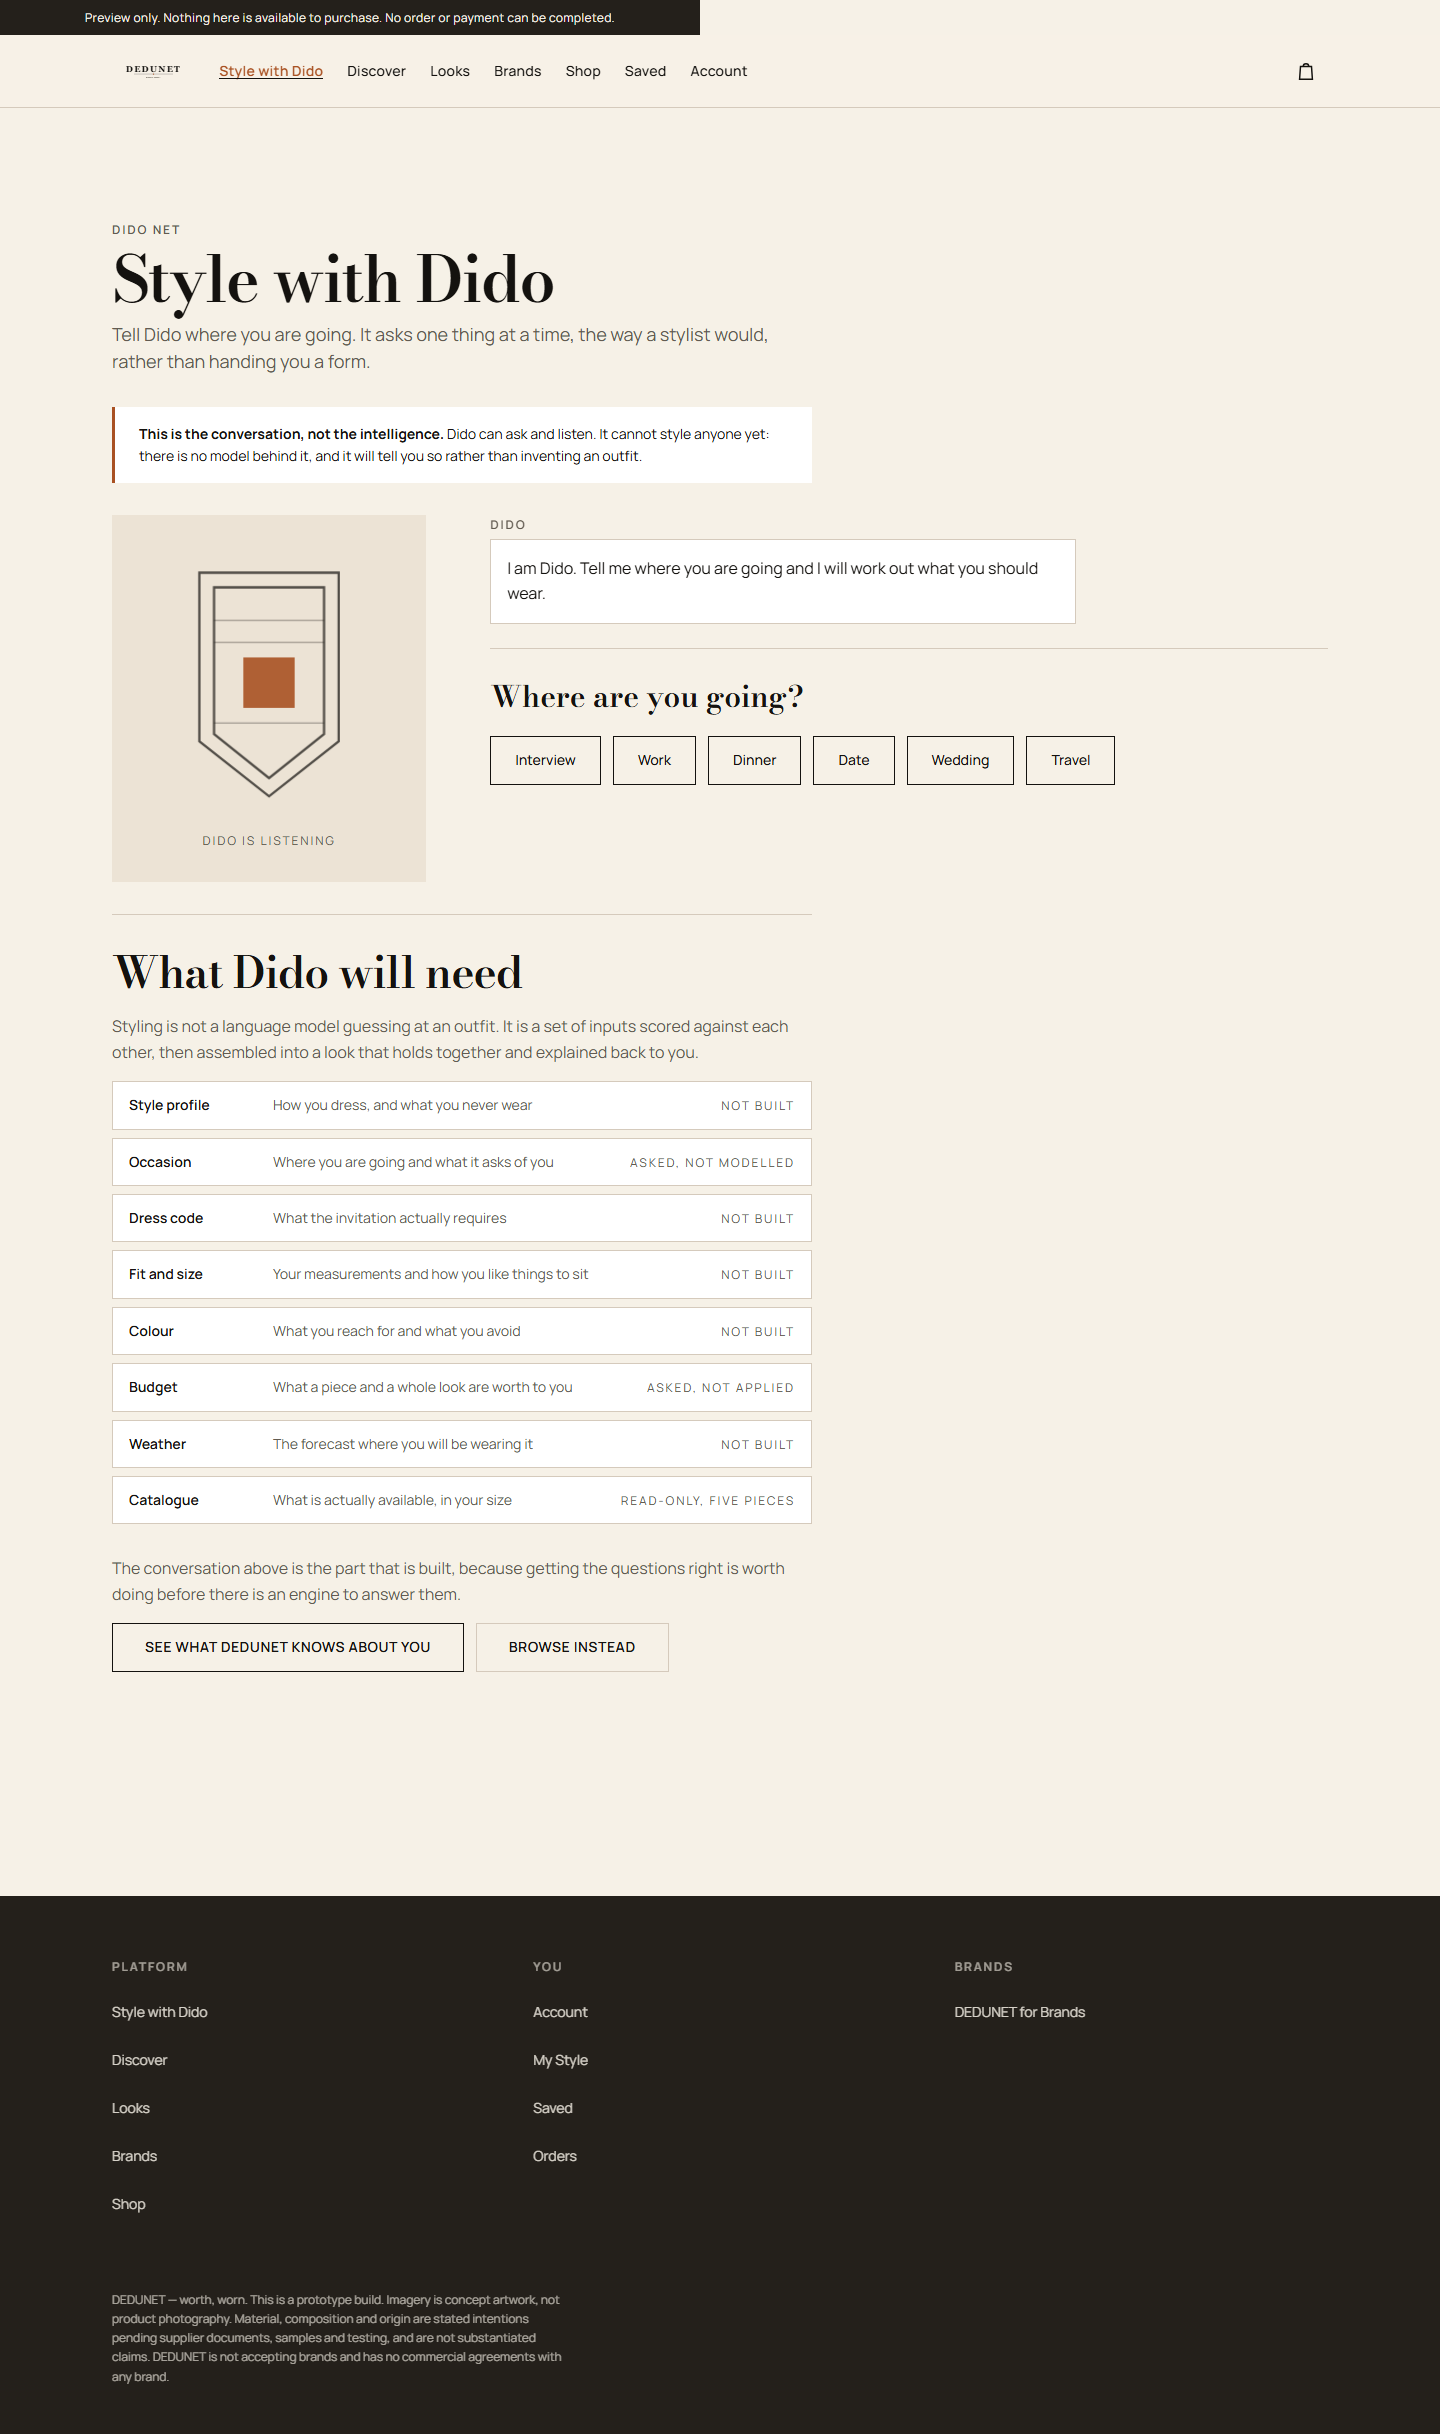
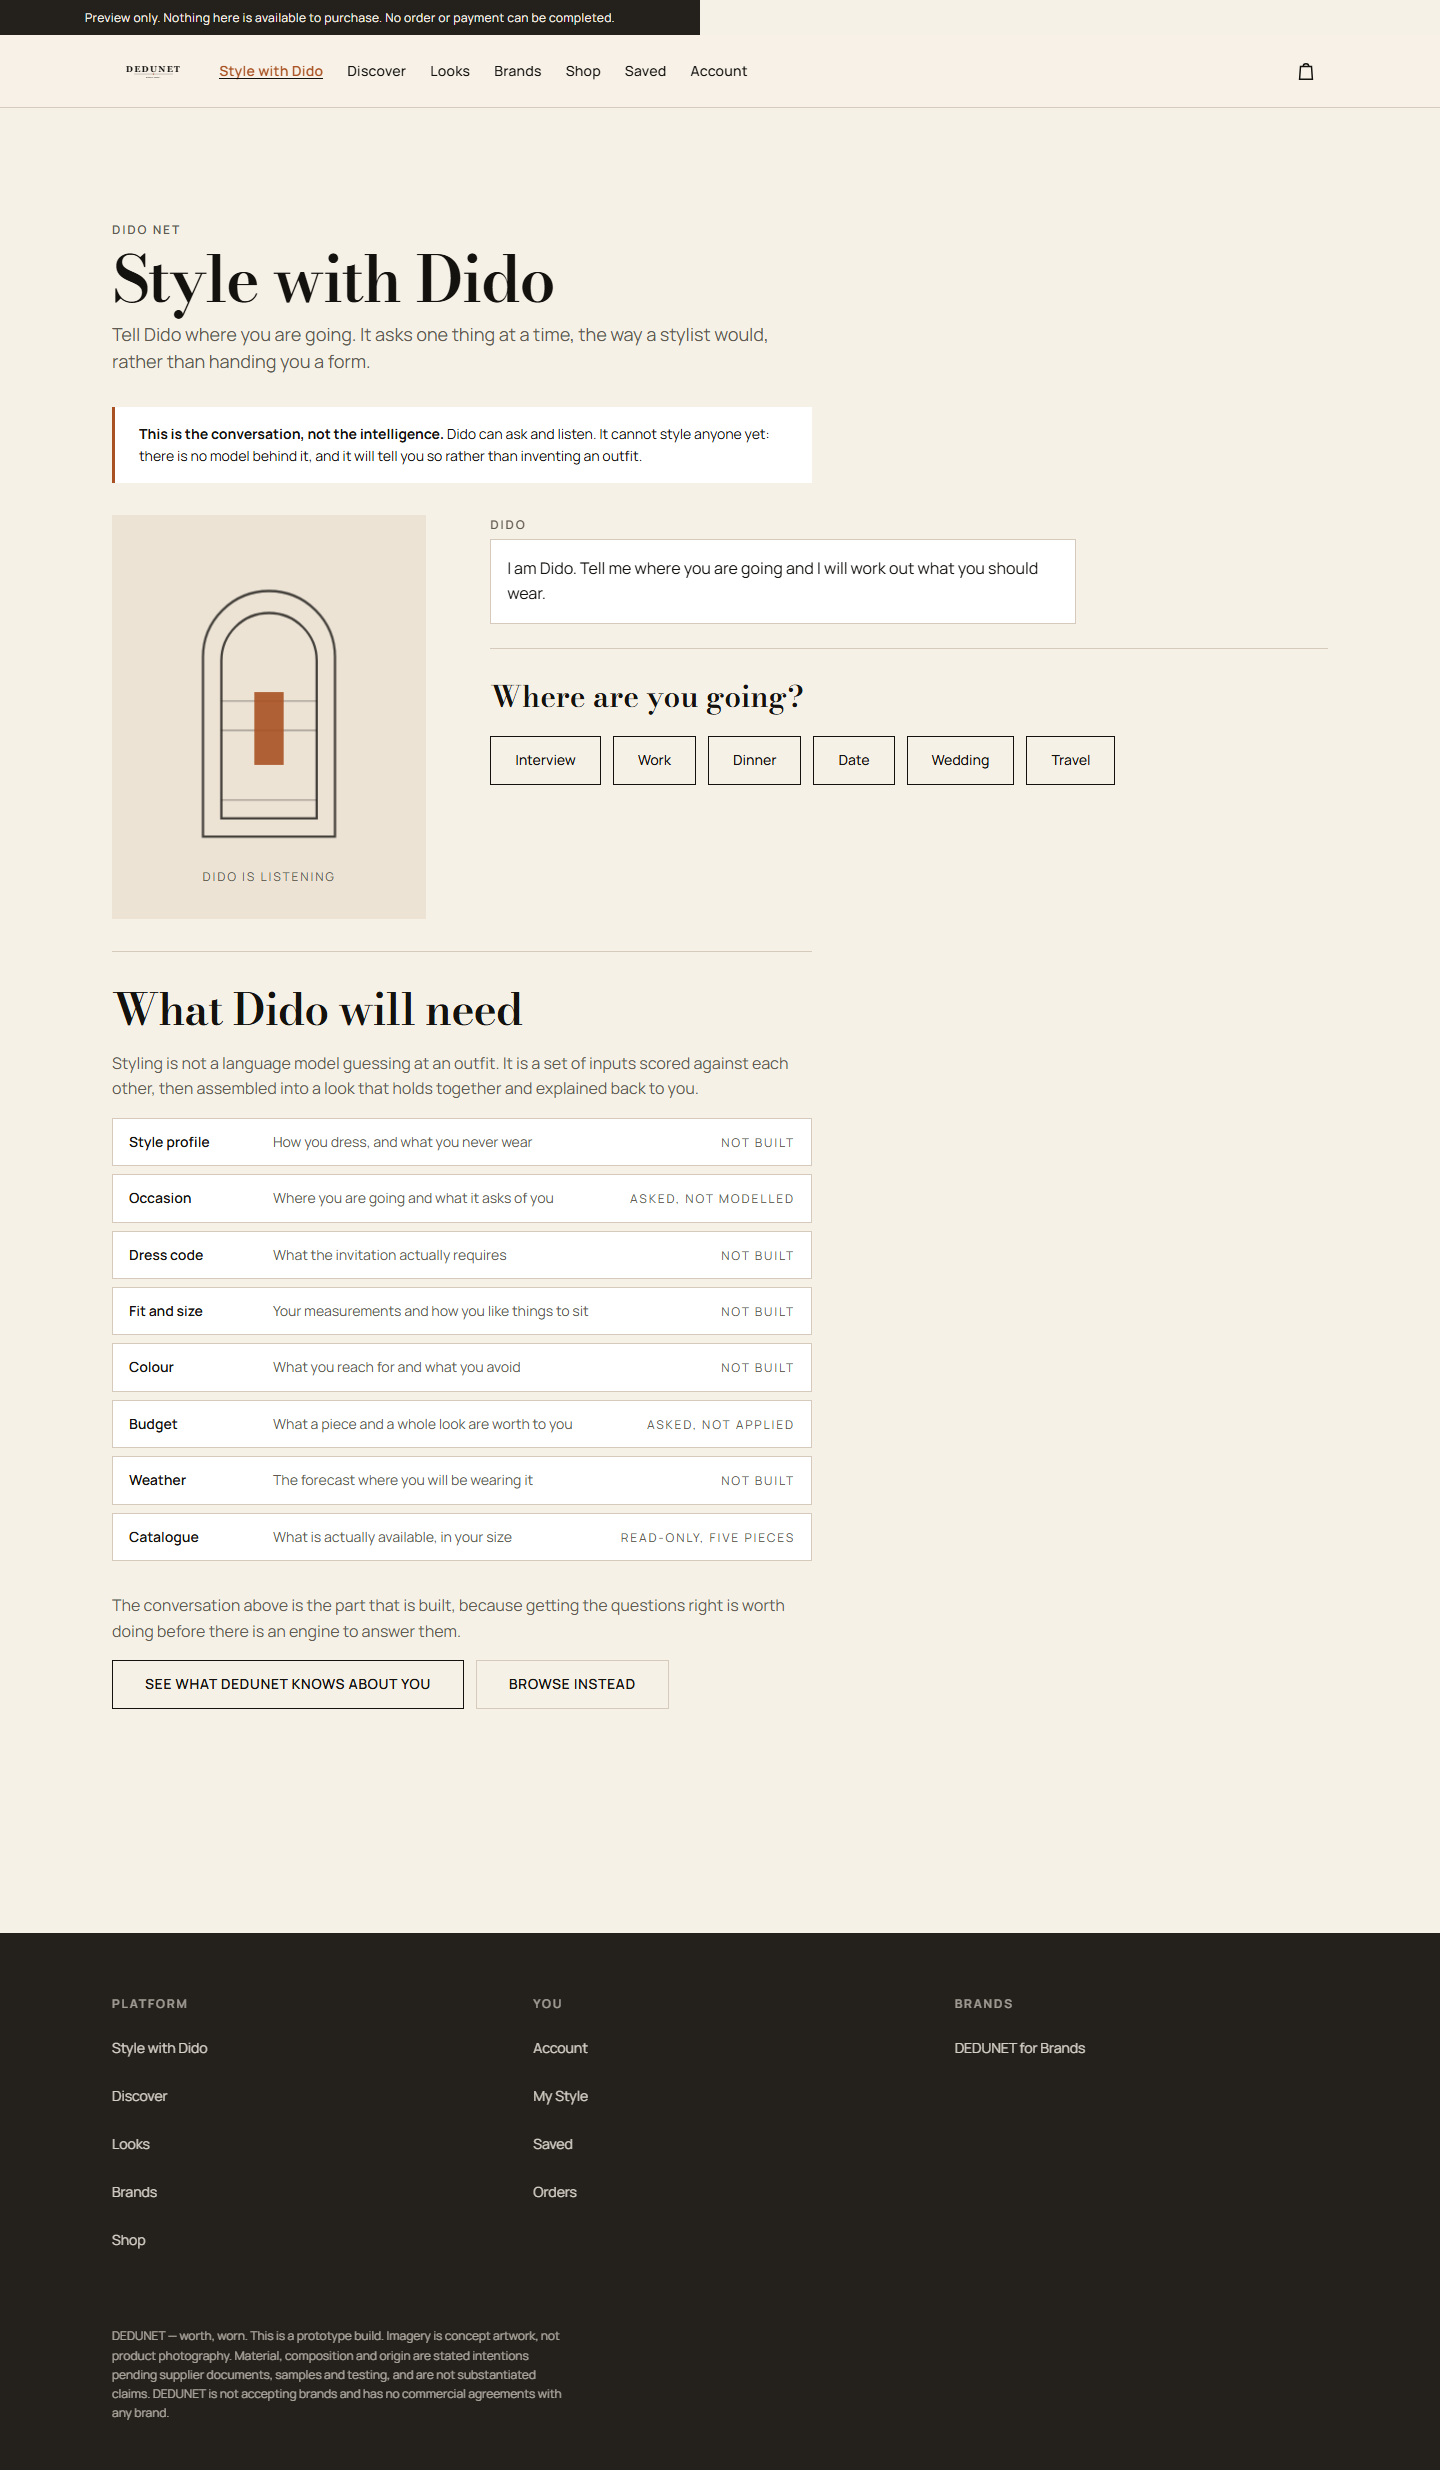
fix: make Dido legible and correct the inverted-surface colours
Follow-up to the Home rebuild, from looking at the rendered bands rather than
at the DOM.

The Dido mark was a rectangle with a V-notch cut from its foot, which at the
size it actually renders read as a shield or a badge — a different object
entirely. Redrawn as a stela: an upright slab with an arched head, the doubled
rule at a tight offset that runs through the brand, passage lines across it, and
a tall vertical aperture. Egyptian by proportion rather than by iconography, and
nothing to mistake for a mascot.

The character was also invisible on its own section. The figure hard-set its
line colour to the page ink, so on the inverted ground of the Dido moment the
whole stela disappeared and only the accent aperture survived. The colour is now
inherited with the page ground as a fallback, and the moment sets its own.

The same class of defect had shipped in the for-brands panel: `secondary` is
dark ink inside a dark border, correct on the page and unreadable on the inverse
one. There is now an `inverse` variant, so a dark section asks for the right
button rather than overriding colours locally.

Two crops were still wrong. The looks rail rotated through a lifestyle view
whose artwork is composed differently from the product plates, so the product
crop landed across its lettering; the rotation is now front/detail/back, which
share one composition and therefore one crop. And the for-brands panel showed
[…]

diff --git a/apps/consumer/src/features/dido/DidoFigure.tsx b/apps/consumer/src/features/dido/DidoFigure.tsx
@@ -73,7 +73,7 @@ export function DidoFigure({ state, decorative = false, className }: DidoFigureP
 
   return (
     <svg
-      viewBox="0 0 120 148"
+      viewBox="0 0 120 168"
       className={classes}
       role={decorative ? "presentation" : "img"}
       aria-label={decorative ? undefined : STATE_LABEL[state]}
@@ -81,24 +81,29 @@ export function DidoFigure({ state, decorative = false, className }: DidoFigureP
       data-dido-state={state}
       focusable="false"
     >
-      {/* The cartouche: a hard vertical frame with cut corners. Egyptian by proportion and
-          by the flat-topped arch, not by ornament. */}
-      <path className={styles.frame} d="M22 14h76v92l-38 30-38-30z" />
-
-      {/* An inner frame at a tight offset. Two rules a few millimetres apart is the single
-          most characteristic move in the brand's line language. */}
-      <path className={styles.frame} d="M30 22h60v80l-30 24-30-24z" opacity="0.45" />
+      {/* A STELA, not a face.
+        *
+        * Egyptian by proportion rather than by iconography: an upright slab with an arched
+        * head, the doubled rule at a tight offset that runs through the whole brand, and a
+        * rhythm of passage lines across it. There is no pharaoh here and nothing to
+        * mistake for a mascot.
+        *
+        * An earlier attempt used a rectangle with a V-notch cut from the foot. At small
+        * sizes that read as a shield or a badge, which is a different object entirely. */}
+      <path className={styles.frame} d="M24 158 V60 A36 36 0 0 1 96 60 V158 Z" />
+      <path className={styles.frame} d="M34 148 V62 A26 26 0 0 1 86 62 V148 Z" opacity="0.45" />
 
       {/* Passage lines: the horizontal rhythm from the delivered pattern asset. */}
       <g className={styles.rules}>
-        <path d="M30 40h60M30 52h60M30 96h60" />
+        <path d="M34 84h52M34 100h52M34 138h52" />
       </g>
 
-      {/* The aperture. Reads as attention without being an eye. */}
-      <rect className={styles.aperture} x="46" y="58" width="28" height="32" />
+      {/* The aperture: a tall vertical slot. Attention without an eye — and vertical, so
+          the states that narrow it read as concentration rather than as a wink. */}
+      <rect className={styles.aperture} x="52" y="76" width="16" height="46" />
 
       {/* The scan, only while Dido is working. */}
-      {WORKING.has(state) ? <path className={styles.scan} d="M30 40h60" /> : null}
+      {WORKING.has(state) ? <path className={styles.scan} d="M34 84h52" /> : null}
     </svg>
   );
 }

diff --git a/apps/consumer/src/features/home/HomePage.module.css b/apps/consumer/src/features/home/HomePage.module.css
@@ -495,7 +495,15 @@
 }
 
 @media (min-width: 900px) {
-  .forBrands { grid-template-columns: minmax(0, 5fr) minmax(0, 6fr); align-items: stretch; }
+  /* `center`, not `stretch`.
+   *
+   * A stretched column grows to whatever the copy beside it needs, and once the panel is
+   * taller than the source scaled to its width, `cover` switches to fitting by HEIGHT and
+   * the ENTIRE source is in frame — including the baked type at the foot of the plate that
+   * every crop above was tuned to exclude. Giving the panel its own ratio makes the crop a
+   * property of the component rather than a function of how long the copy happens to be. */
+  .forBrands { grid-template-columns: minmax(0, 5fr) minmax(0, 6fr); align-items: center; }
+  .forBrandsMedia { aspect-ratio: 5 / 6; min-height: 0; max-height: 34rem; }
 }
 
 .forBrandsMedia {
@@ -515,7 +523,14 @@
   width: 100%;
   height: 100%;
   object-fit: cover;
-  object-position: 50% 45%;
+  /* Weighted high, because this column STRETCHES to the copy beside it.
+   *
+   * The asset is 1080x1920 with its baked type at y 1497..1824. A short panel shows only
+   * the middle band and clears it, but on a wide screen the column stretches to the full
+   * section height and the visible window grows enough to reach that type. Centring the
+   * window at 30% keeps the geometry in frame and the lettering out of it at every panel
+   * height this layout produces. */
+  object-position: 50% 24%;
 }
 
 .forBrandsCopy {

diff --git a/apps/consumer/src/features/dido/DidoFigure.module.css b/apps/consumer/src/features/dido/DidoFigure.module.css
@@ -11,13 +11,18 @@
  */
 
 .figure {
-  --dido-line: var(--ds-text);
   --dido-accent: var(--ds-accent);
   display: block;
   width: 100%;
   height: auto;
   max-width: 220px;
-  color: var(--dido-line);
+  /* The line colour is INHERITED, with the page ground as the fallback.
+   *
+   * It used to be hard-set to --ds-text, which is correct on the page and invisible on the
+   * inverse ground of the Dido moment — the whole stela disappeared there and only the
+   * accent aperture survived. An ancestor sets --dido-line for its own surface; nothing
+   * else changes. */
+  color: var(--dido-line, var(--ds-text));
 }
 
 .frame {
@@ -29,7 +34,7 @@
 /* The aperture. Scales and shifts opacity by state, which is the whole expressive range. */
 .aperture {
   fill: var(--dido-accent);
-  transform-origin: 60px 74px;
+  transform-origin: 60px 99px;
   transition:
     transform var(--ds-duration-slow) var(--ds-ease-standard),
     opacity var(--ds-duration-slow) var(--ds-ease-standard);
@@ -52,7 +57,7 @@
   0%   { transform: translateY(0); opacity: 0; }
   12%  { opacity: 1; }
   88%  { opacity: 1; }
-  100% { transform: translateY(58px); opacity: 0; }
+  100% { transform: translateY(54px); opacity: 0; }
 }
 
 /* Listening: the frame breathes. Slow enough to read as attention rather than as a pulse

diff --git a/apps/consumer/src/features/dido/DidoMoment.module.css b/apps/consumer/src/features/dido/DidoMoment.module.css
@@ -94,9 +94,16 @@
   align-items: center;
 }
 
-.figureColumn { display: flex; flex-direction: column; align-items: center; gap: var(--ds-space-3); }
+.figureColumn {
+  display: flex;
+  flex-direction: column;
+  align-items: center;
+  gap: var(--ds-space-3);
+  /* This surface is inverted, so the character draws in the inverse ink. */
+  --dido-line: color-mix(in srgb, var(--ds-text-inverse) 82%, transparent);
+}
 
-.figure { width: clamp(96px, 26vw, 168px); }
+.figure { width: clamp(120px, 30vw, 200px); }
 
 /* The state, named. Section 27 forbids status carried by colour or shape alone, and it is
    also simply useful: it says what Dido is doing. */
@@ -138,8 +145,8 @@
   object-fit: cover;
   /* Same crop as the product plates: the delivered artwork carries a baked caption in its
      lower quarter that would be illegible at this size and duplicates the label below. */
-  transform: scale(1.36);
-  transform-origin: 50% 46%;
+  transform: scale(1.65);
+  transform-origin: 50% 42%;
 }
 
 /* A hairline over each plate so they read as a composed set rather than three thumbnails. */

diff --git a/apps/consumer/src/components/Button.module.css b/apps/consumer/src/components/Button.module.css
@@ -76,6 +76,24 @@
   border-color: var(--ds-border);
 }
 
+/* For INVERTED surfaces.
+ *
+ * `secondary` is dark ink inside a dark border, which is correct on the page ground and
+ * effectively invisible on the inverse one — it shipped that way in the for-brands panel
+ * and read as an empty outline. A dark section needs its own variant rather than each
+ * section overriding colours locally. */
+.inverse {
+  background: transparent;
+  color: var(--ds-text-inverse);
+  border-color: color-mix(in srgb, var(--ds-text-inverse) 55%, transparent);
+}
+
+.inverse:hover:not(:disabled) {
+  background: var(--ds-text-inverse);
+  color: var(--ds-text);
+  border-color: var(--ds-text-inverse);
+}
+
 .quiet:hover:not(:disabled) { border-color: var(--ds-border-strong); }
 
 /* A text button that still meets the target floor. Padding does the work, not size. */

diff --git a/apps/consumer/src/features/useCatalog.ts b/apps/consumer/src/features/useCatalog.ts
@@ -84,7 +84,13 @@ export function coloursOf(product: CatalogProduct): string[] {
  *
  * Falls back to the primary image when a product has no artwork in the requested role.
  */
-const VIEW_ROTATION = ["front", "detail", "lifestyle", "back"] as const;
+/* Front, detail and back only.
+ *
+ * NOT lifestyle. The lifestyle plates are composed differently from the product plates —
+ * different geometry, and their baked type sits somewhere else — so the product crop lands
+ * across it and the rail showed a look with stray lettering through the middle of it. The
+ * three product views share one composition and therefore one crop. */
+const VIEW_ROTATION = ["front", "detail", "back"] as const;
 
 export function mediaByRotation(
   product: CatalogProduct,

diff --git a/apps/consumer/src/features/home/HomePage.tsx b/apps/consumer/src/features/home/HomePage.tsx
@@ -393,7 +393,7 @@ export default function HomePage() {
               the fit and the budget. That is a different kind of placement, and a different
               kind of customer, from a search result.
             </p>
-            <ButtonLink to="/for-brands" variant="secondary">
+            <ButtonLink to="/for-brands" variant="inverse">
               DEDUNET for Brands
             </ButtonLink>
             <p className={styles.forBrandsNote}>

diff --git a/apps/consumer/src/components/Button.tsx b/apps/consumer/src/components/Button.tsx
@@ -3,7 +3,7 @@ import { Link } from "react-router-dom";
 import { cx } from "./primitives";
 import styles from "./Button.module.css";
 
-export type ButtonVariant = "primary" | "accent" | "secondary" | "quiet" | "link";
+export type ButtonVariant = "primary" | "accent" | "secondary" | "inverse" | "quiet" | "link";
 
 function variantClass(variant: ButtonVariant): string {
   return styles[variant]!;

diff --git a/evidence/phase-3/HOME_VISUAL_REBUILD.md b/evidence/phase-3/HOME_VISUAL_REBUILD.md
@@ -119,6 +119,14 @@ None of these would have failed an assertion.
 | For-brands artwork **escaping its column and covering the copy** | a scaled image in a grid column with no `overflow: hidden` |
 | Two-item brands rail rendering 620px plates | `1fr` columns make card size a function of item count |
 | Feature plate swamping its copy | unbounded plate width |
+| **The Dido mark read as a shield or a badge** | a rectangle with a V-notch cut from its foot; redrawn as a stela — an upright slab with an arched head and a vertical aperture |
+| **The Dido character was invisible on its own section** | the figure hard-set its line colour to the page ink, which on the inverted ground left only the accent aperture showing. The colour is now inherited, with the page ground as a fallback |
+| **"DEDUNET for Brands" was dark ink on a dark panel** | `secondary` is correct on the page ground and unreadable on the inverse one. A dark surface needs its own button variant rather than local colour overrides |
+| A lifestyle plate cropped through its own type | the lifestyle artwork is composed differently from the product plates, so the product crop landed on its lettering. The view rotation now uses front/detail/back only |
+| The for-brands panel showed the whole source, type and all | a **stretched** grid column grew taller than the source scaled to its width, at which point `cover` fits by HEIGHT and the entire image is in frame. The panel now carries its own ratio |
+
+The last one is the most instructive: every crop above it was tuned correctly, and one
+`align-items: stretch` made the container taller than the assumption they all rested on.
 
 ## 7. Verification
 
